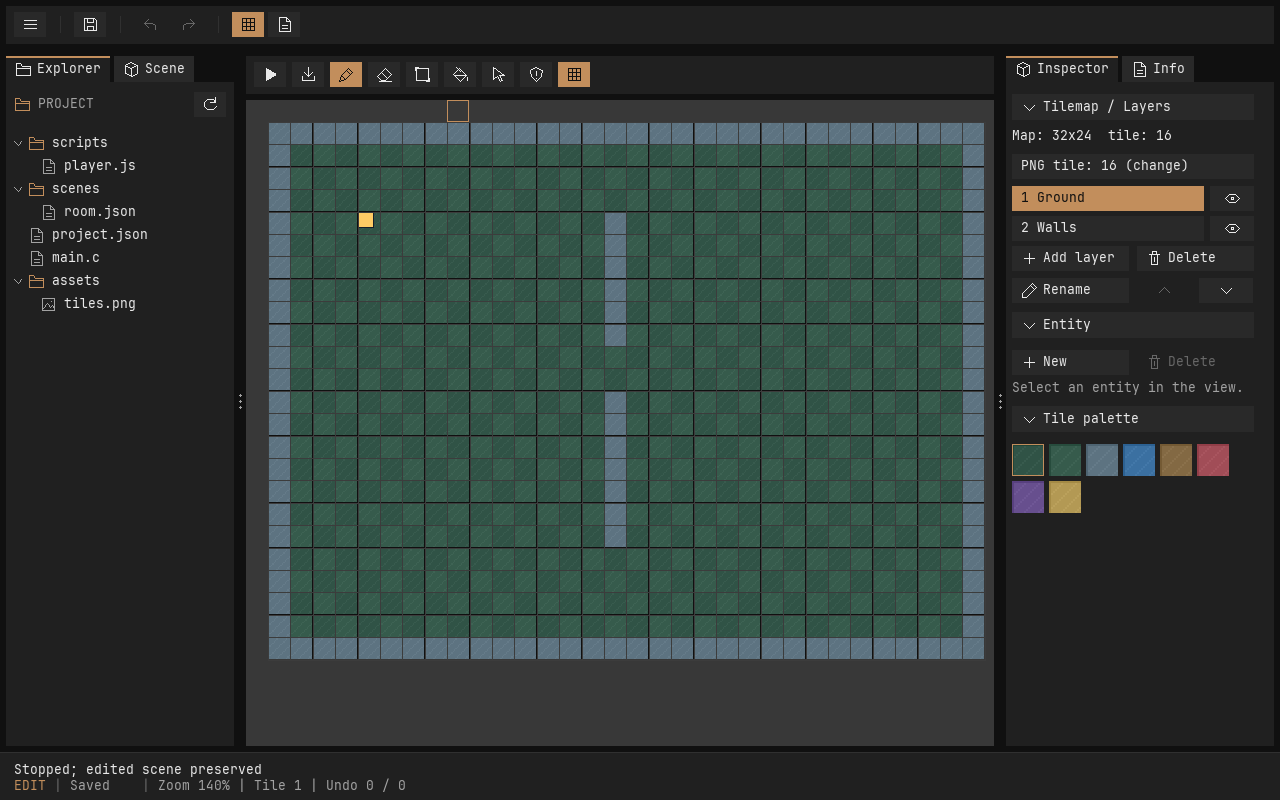
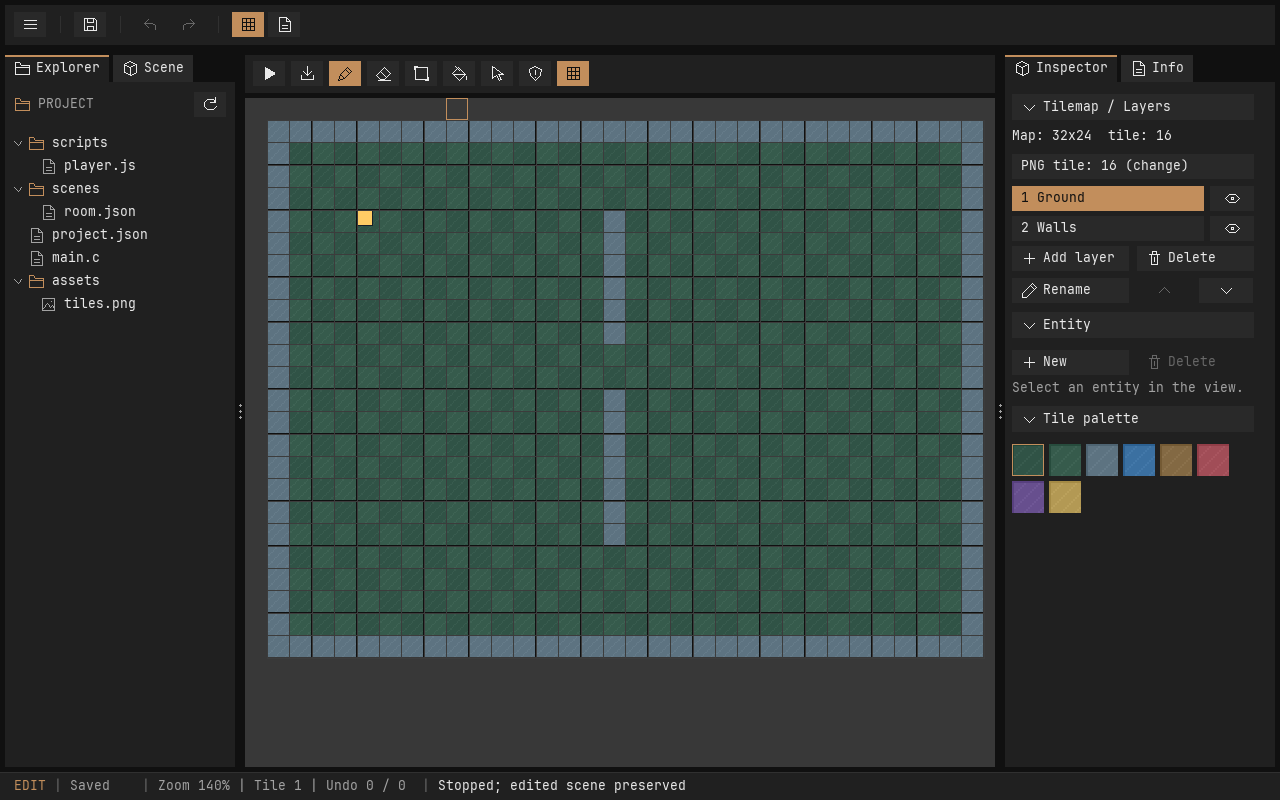
Tighten panel gaps and combine status information into one row

diff --git a/editor/src/main.c b/editor/src/main.c
@@ -11,8 +11,8 @@
 #define RIGHT ((int)app.right_width)
 #define TOP 50
 #define TABS 32
-#define BOTTOM 48
-#define PANEL_GAP 6
+#define BOTTOM 28
+#define PANEL_GAP 5
 #define GLOBAL_NAV_X 232
 #define SIDE_TOP (TOP + TABS)
 #define TREE_MAX 256
@@ -1277,7 +1277,6 @@ static void draw(void) {
         draw_inspector();
     box((SDL_FRect){0, (float)(app.height - BOTTOM), (float)app.width, BOTTOM}, UI_PANEL);
     box((SDL_FRect){0, (float)(app.height - BOTTOM), (float)app.width, 1}, UI_BORDER);
-    text(14, (float)(app.height - 34), scripts_active() ? app.script.status : app.status, UI_TEXT);
     char details[128];
     if (scripts_active()) {
         int line, column;
@@ -1298,6 +1297,16 @@ static void draw(void) {
          active_dirty ? UI_ACCENT : UI_MUTED);
     text(142, status_y, "|", UI_DISABLED);
     text(158, status_y, details, UI_MUTED);
+    float message_x = 158 + ui_text_width(details) + 16;
+    text(message_x, status_y, "|", UI_DISABLED);
+    message_x += 16;
+    /* Long messages stay in their own portion of the single-line status bar. */
+    ui_clip_push(&app.ui, (UiRect){message_x, (float)(app.height - BOTTOM),
+                                   fmaxf(0, app.width - message_x - 14), BOTTOM});
+    ui_apply_clip(app.renderer, &app.ui);
+    text(message_x, status_y, scripts_active() ? app.script.status : app.status, UI_TEXT);
+    ui_clip_pop(&app.ui);
+    ui_apply_clip(app.renderer, &app.ui);
     if (tooltip && !modal) {
         float width = (float)strlen(tooltip) * 8 + 20;
         float tx = fminf(app.mx + 12, app.width - width - 8),

diff --git a/docs/UI_BIBLIOTHEK.md b/docs/UI_BIBLIOTHEK.md
@@ -123,7 +123,7 @@ Editor-Smoke-Tests ziehen beide Spaltentrenner, klappen einen Inspector-Bereich 
 
 Nach Bedarf ergänzen wir Checkboxen/Radio-Buttons, Slider, Dropdowns, allgemeine Text-/Zahlenfelder, Menüleisten, Dialogbausteine und Listen-/Baumansichten. Dazu gehören später Tab-Navigation, eine bessere Textdarstellung und gespeicherte Benutzerlayouts. Jede Komponente soll einen kleinen Daten-/Eingabeteil und eine getrennte Darstellung erhalten. Freies Docking und ein vollständiges IDE-Framework bleiben größere, separate Aufgaben.
 
-Der Editor verwendet `UI_CANVAS` (#101010) als dunkle Grundfläche und `UI_PANEL` (#202020) für abgesetzte Panels. Toolbar, Dateibaum und Inspector haben 6 px Außenabstand. Buttons verwenden #292929, Hover #393939; die orange Akzentfarbe bleibt erhalten. Map- und Script-Arbeitsflächen berücksichtigen dieselben Abstände bei Darstellung und Eingabe.
+Der Editor verwendet `UI_CANVAS` (#101010) als dunkle Grundfläche und `UI_PANEL` (#202020) für abgesetzte Panels. Toolbar, Dateibaum und Inspector haben 5 px Außenabstand. Buttons verwenden #292929, Hover #393939; die orange Akzentfarbe bleibt erhalten. Map- und Script-Arbeitsflächen berücksichtigen dieselben Abstände bei Darstellung und Eingabe.
 
 
 Die Seitenpanels verwenden ebenfalls `UiTabs`: links **Explorer / Scene**, rechts **Inspector / Info**. Die beiden Panel-Tabgruppen und die globale Arbeitsbereichsauswahl haben unabhängige Auswahl und Reihenfolge; Tabs können innerhalb ihrer Gruppe umsortiert werden. Scene listet die lebenden Entities der bearbeiteten Szene. Ein Klick wählt die Entity aus, aktiviert Map und Inspector und ändert keine Szenendaten. Während Play oder einer laufenden Bearbeitung ist diese Auswahl gesperrt. Info zeigt Kartengröße, Tilegröße, Ebenen-/Entity-Anzahl und Tastenkürzel. Explorer, Scene und Info behalten eigene Scrollpositionen. Zusätzliche Ansichten können später mit einer stabilen Tab-ID und einem eigenen Inhaltsrenderer ergänzt werden; gruppenübergreifendes Docking ist noch nicht vorhanden.
@@ -150,3 +150,5 @@ Die obere Toolbar enthält Hamburger-Menü (zunächst ohne Funktion), Speichern,
 Für einen weiteren Bereich eine neue stabile ID, eigenen Datenzustand, Toolbar-/Inhaltsrenderer und einen Eintrag in der Liste ergänzen. Passende Eingaben, Kurzbefehle, Speichern und Inspector-Inhalte müssen für den neuen Editor ebenfalls ergänzt werden. Dies ist eine interne C-Erweiterungsstelle, noch keine dynamische Plugin-API. Es gibt keine leeren Platzhalter für künftige Tools.
 
 Werkzeugbuttons bleiben Icons mit Tooltips. `action_count` bestimmt die benötigten Zeilen; bei schmaler mittlerer Spalte werden die Aktionen auf weitere Zeilen verteilt. Der Canvas beginnt unter der vollständigen Toolbar, und alle Toolbar-Zeilen erhalten Eingabevorrang vor Karte/Text. F5 startet ausschließlich im Map-Bereich; während Play ist der Wechsel zu anderen Editoren gesperrt. Die Syntaxprüfung steht nur einmal in der Scripts-Werkzeugleiste; die Dokumentkopfzeile zeigt den Dateinamen.
+
+Die Statusleiste ist 28 px hoch und zeigt EDIT/PLAY, Saved/Modified, Dokumentdetails und die letzte Meldung in einer Zeile. Die Meldung folgt der gemessenen Breite der Details und wird bei Platzmangel rechts abgeschnitten, ohne andere Angaben zu überdecken. Die zentralen Panel-Abstände betragen 5 px.

diff --git a/docs/TESTPLAN.md b/docs/TESTPLAN.md
@@ -37,7 +37,7 @@ Die automatisierten Tests wurden in der Entwicklungsumgebung headless ausgeführ
 
 ## Gemeinsame UI und Flat-Layout
 
-1. Panel-Abstände prüfen: Toolbar, Dateibaum und Inspector heben sich mit hellerem Grau und 6 px dunklem Zwischenraum ab; beim Spaltenziehen/Fensterresize bleiben die Abstände erhalten. Map-Pinsel, Zoom und Skript-Auswahl treffen nach dem Einrücken weiterhin korrekt. Buttons/Tabs prüfen: gerade Kanten, flächige Farben, aktives Orange und gut lesbare Beschriftung. Save und Play/Stop zeigen nur Icons; Tooltips und Ctrl+S/F5 funktionieren weiterhin. Außerhalb der Karte ist die Arbeitsfläche heller grau; beim Zoomen/Verschieben bleiben leere und transparente Tiles innerhalb der Karte dunkel.
+1. Panel-Abstände prüfen: Toolbar, Dateibaum und Inspector heben sich mit hellerem Grau und 5 px dunklem Zwischenraum ab; beim Spaltenziehen/Fensterresize bleiben die Abstände erhalten. Map-Pinsel, Zoom und Skript-Auswahl treffen nach dem Einrücken weiterhin korrekt. Buttons/Tabs prüfen: gerade Kanten, flächige Farben, aktives Orange und gut lesbare Beschriftung. Save und Play/Stop zeigen nur Icons; Tooltips und Ctrl+S/F5 funktionieren weiterhin. Außerhalb der Karte ist die Arbeitsfläche heller grau; beim Zoomen/Verschieben bleiben leere und transparente Tiles innerhalb der Karte dunkel.
 2. Beide Spaltentrenner ziehen, auch über ihren ursprünglichen Bereich hinaus. Mindestbreiten erhalten die mittlere Arbeitsfläche. Keine Tiles oder Texte dürfen dabei verändert werden.
 3. Rechts Inspector-Bereiche ein-/ausklappen und die Tile-Palette bei geänderter Spaltenbreite prüfen. Rename und Sortieraktionen bleiben erreichbar.
 4. Mit vielen Dateien, vier Ebenen/ausgewählter Entity und langen Scripts Scrollbars prüfen: Mausrad, Thumb-Ziehen und Track-Klicks. Ausgeblendete Controls dürfen nicht anklickbar sein.
